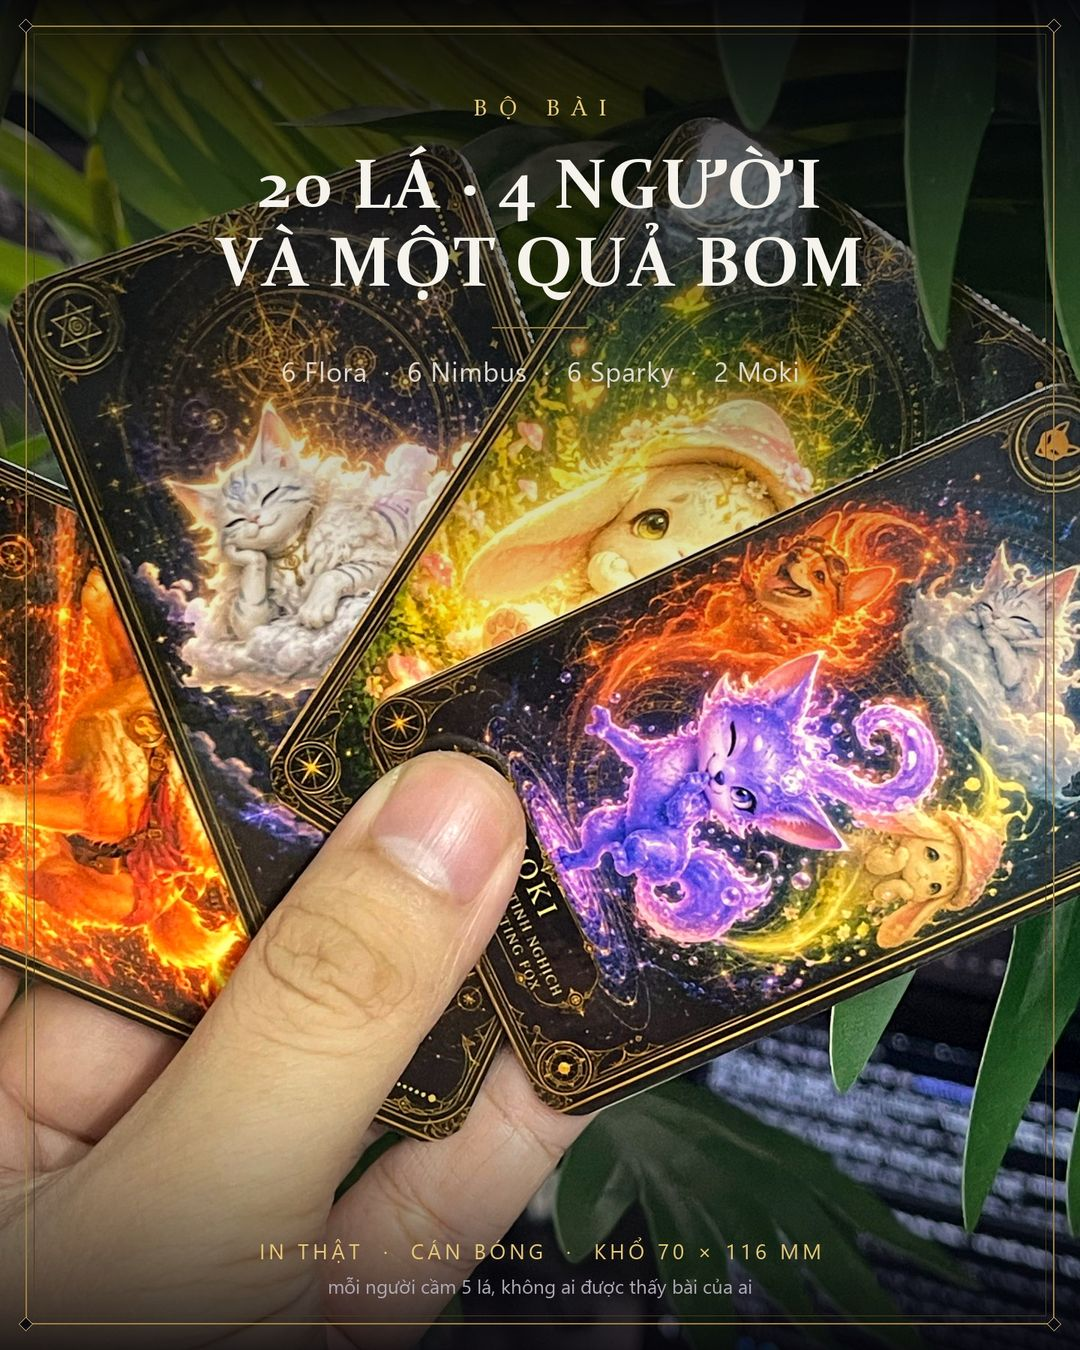
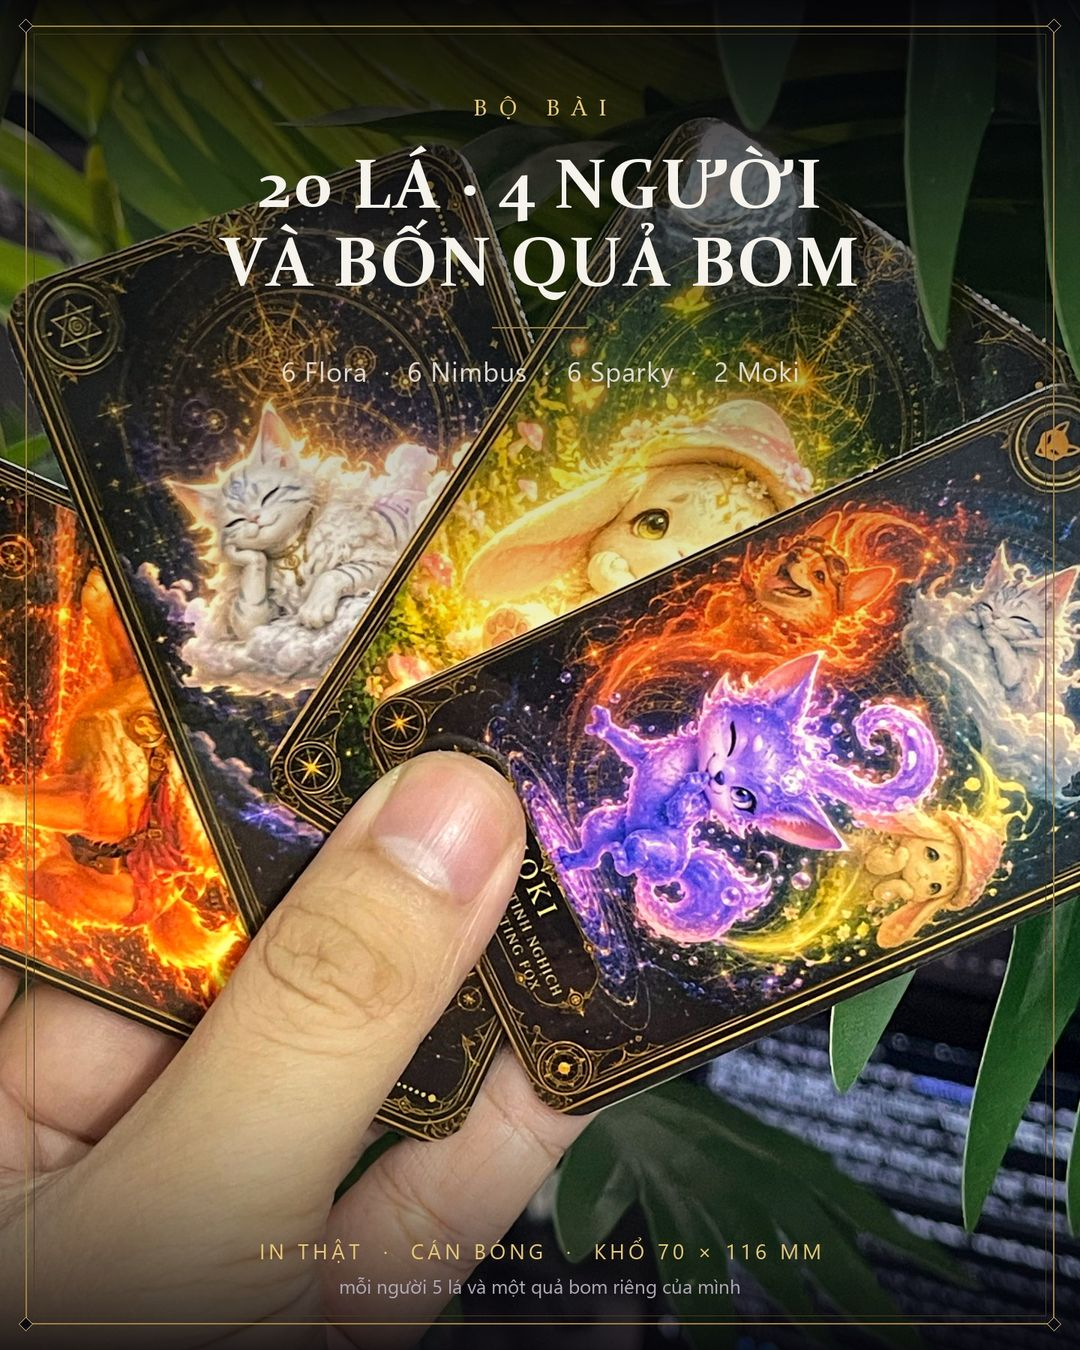
Luat moi: moi nguoi mot qua bom + nguoi chia giu la chu dao
- Mot bo gom 20 la bai va 4 qua bom, moi nguoi giu rieng mot qua.
  Cua song hep dan theo so lan CHINH MINH bi bat, khong phai theo
  so lan ca ban bi phat.
- La chu dao ve tay nguoi chia (phan bu cho nguoi chia). 19 la con
  lai chia tiep, cuoi cung ai cung cam 5 la.
- Them muc "Meo cho nguoi chia bai" vao luat chi tiet.
- Them ghi chu xac suat: kha nang chet o lan bi bat thu 1, 2 hay 3
  deu bang 1/3.
- Van mau: An lam nguoi chia va danh luon la chu dao.
- Dung lai anh 02, 03, 04 cho khop luat moi.

Claude-Session: https://claude.ai/code/session_01YBYJBKerinFDAmanfukTi1

Changed region(s): [[0.2139, 0.1556, 0.7944, 0.2178], [0.3056, 0.9333, 0.7028, 0.9644]]

diff --git a/index.html b/index.html
@@ -4,9 +4,9 @@
 <meta charset="utf-8">
 <meta name="viewport" content="width=device-width, initial-scale=1">
 <title>Hư Thực Khó Lường — board game bài + quả bom thật</title>
-<meta name="description" content="Bộ bài bluff 20 lá cho 4 người, đi kèm một thiết bị gỡ bom tự thiết kế. Bị bắt nói dối là phải bấm 1 trong 3 nút.">
+<meta name="description" content="Bộ bài bluff 20 lá cho 4 người, đi kèm 4 quả bom tự thiết kế — mỗi người một quả. Bị bắt nói dối là phải bấm 1 trong 3 nút.">
 <meta property="og:title" content="Hư Thực Khó Lường">
-<meta property="og:description" content="Bị bắt nói dối là phải gỡ bom. Ba nút, một nút cho nổ, và quả bom không reset.">
+<meta property="og:description" content="Bị bắt nói dối là phải gỡ bom. Mỗi người một quả bom riêng, ba nút, một nút cho nổ.">
 <meta property="og:image" content="img/01-hero.jpg">
 <meta property="og:type" content="website">
 <link rel="preconnect" href="https://fonts.googleapis.com">
@@ -184,6 +184,8 @@
                    box-shadow:0 0 0 4px rgba(216,68,52,.18)}
   .seat b{display:block;font-size:14px}
   .seat i{display:block;font-style:normal;font-size:12px;color:var(--muted);margin-top:2px}
+  .deal{display:block;font-size:10px;letter-spacing:.1em;text-transform:uppercase;
+        color:var(--gold);font-weight:600;margin-top:3px}
 
   .felt{position:relative;min-height:326px;padding:20px 16px;
         display:grid;place-items:center;align-content:center;gap:14px;
@@ -270,7 +272,7 @@
     <h1>Hư Thực Khó Lường</h1>
     <p class="script">Ai cũng bảo mình đang nói thật</p>
     <p class="lead" style="margin:0 auto">Bị bắt nói dối là phải gỡ bom.
-       Ba nút, một nút cho nổ — và quả bom <strong>không reset</strong>.</p>
+       Mỗi người một quả riêng, ba nút, một nút cho nổ — và nó <strong>không reset</strong>.</p>
     <div class="hero-img"><img src="img/01-hero.jpg" alt="Hai bo mạch bom nằm trong lòng bàn tay" width="1080" height="1350"></div>
   </div>
 </header>
@@ -280,16 +282,21 @@
     <div>
       <p class="eyebrow">Hình phạt</p>
       <h2>Quả bom không reset</h2>
-      <p>Bo mạch tự vẽ, tự đi dây, tự đặt gia công, tự viết firmware.
-         Board rộng <strong>39 mm</strong> — chưa tới nửa cái thẻ ATM.</p>
+      <p><strong>Mỗi người một quả bom riêng.</strong> Trong hộp có bốn cái —
+         bo mạch tự vẽ, tự đi dây, tự đặt gia công, tự viết firmware.
+         Mỗi cái rộng <strong>39 mm</strong>, chưa tới nửa cái thẻ ATM.</p>
       <p>Ba nút, một nút giấu bom, chọn ngẫu nhiên mỗi ván. Bấm xong đèn
          <strong>nhấp nháy 3 giây</strong> rồi mới báo kết quả.</p>
-      <p>Nút nào bấm mà an toàn thì tắt đèn vĩnh viễn, không ai bấm lại được nữa:</p>
+      <p>Nút nào bấm mà an toàn thì tắt đèn vĩnh viễn. Quả bom của bạn nhớ hết những lần bạn bị bắt:</p>
       <ul class="odds">
-        <li class="o1"><b>1/3</b><span>Người bị phạt đầu tiên</span></li>
-        <li class="o2"><b>1/2</b><span>Người thứ hai</span></li>
-        <li class="o3"><b>1/1</b><span>Người thứ ba — hết cửa</span></li>
+        <li class="o1"><b>1/3</b><span>Lần bạn bị bắt đầu tiên</span></li>
+        <li class="o2"><b>1/2</b><span>Lần thứ hai</span></li>
+        <li class="o3"><b>1/1</b><span>Lần thứ ba — không còn cửa</span></li>
       </ul>
+      <p style="margin-top:18px">Nhân ba con số đó lại thì ra một điều lạ:
+         khả năng bạn chết ở lần bị bắt <strong>thứ nhất, thứ hai hay thứ ba
+         đều đúng bằng 1/3</strong>. Ngay từ đầu ván, quả bom đã bốc sẵn xem
+         lần bị bắt thứ mấy sẽ hạ bạn — bạn chỉ chưa biết mà thôi.</p>
     </div>
     <div class="dup"><img src="img/03-bom.jpg" alt="Cơ chế bom leo thang 1/3, 1/2, chết chắc" width="1080" height="1350" loading="lazy"></div>
   </div>
@@ -301,11 +308,11 @@
       <p class="eyebrow">Luật chơi</p>
       <h2>Hiểu trong 30 giây</h2>
       <ol class="steps">
-        <li>Rút 1 lá làm <strong>CHỦ ĐẠO</strong>, lật ngửa cho cả bàn cùng thấy.</li>
-        <li>Chia hết 20 lá cho 4 người — mỗi người đúng 5 lá.</li>
+        <li>Rút 1 lá làm <strong>CHỦ ĐẠO</strong>, lật ngửa cho cả bàn cùng thấy. Lá đó về tay <strong>người chia</strong>.</li>
+        <li>Chia nốt 19 lá còn lại. Cuối cùng ai cũng cầm đúng 5 lá.</li>
         <li>Đến lượt: úp 1 lá xuống và diễn như thể đó là lá chủ đạo.</li>
         <li>Người kế tiếp được hô <strong>“NÓI DỐI!”</strong>, hoặc im lặng cho qua.</li>
-        <li>Ai sai thì người đó gỡ bom. Bắt hụt cũng phải gỡ.</li>
+        <li>Ai sai thì người đó gỡ <strong>bom của mình</strong>. Bắt hụt cũng phải gỡ.</li>
       </ol>
       <div class="note">
         <h3>Moki luôn là thật</h3>
@@ -318,12 +325,28 @@
         <div class="in">
           <h4>Chuẩn bị</h4>
           <ul>
-            <li>Bộ 20 lá: <b>6 Flora · 6 Nimbus · 6 Sparky · 2 Moki</b>. Đúng 4 người chơi.</li>
+            <li>Một bộ gồm <b>20 lá bài</b> và <b>4 quả bom</b> — mỗi người giữ riêng một quả.</li>
+            <li>Bài chia làm: <b>6 Flora · 6 Nimbus · 6 Sparky · 2 Moki</b>. Đúng 4 người chơi.</li>
             <li>Xáo bài, rút ngẫu nhiên 1 lá làm <b>chủ đạo</b>. Nếu rút trúng Moki thì trả lại,
                 xáo, rút lại cho tới khi ra một trong ba chất.</li>
-            <li>Lật ngửa lá chủ đạo cho cả bàn cùng thấy, rồi xáo lại cả bộ và chia đều —
-                mỗi người <b>đúng 5 lá</b>, chia hết cả bộ.</li>
+            <li>Lật ngửa lá chủ đạo cho cả bàn cùng thấy. <b>Lá đó thuộc về người chia bài</b> —
+                đây là phần bù cho người chia, họ chắc chắn có sẵn một lá nói thật.</li>
+            <li>19 lá còn lại xáo và chia tiếp: người chia nhận thêm <b>4 lá</b>,
+                ba người kia nhận <b>5 lá</b>. Cuối cùng ai cũng cầm đúng 5 lá.</li>
           </ul>
+
+          <h4>Mẹo cho người chia bài</h4>
+          <p style="margin:0 0 10px">Người chia cầm chắc một lá nói thật. Dùng nó lúc nào là cả một ván cược:</p>
+          <ul>
+            <li><b>Đánh ra ngay lượt đầu.</b> An toàn tuyệt đối ở lượt mở màn — ai vạch trần
+                lượt đó là tự đưa mình lên bom. Đổi lại, từ lượt sau người chia không còn lá
+                an toàn nào, và cả bàn cũng đoán ra điều đó.</li>
+            <li><b>Giữ lại và diễn.</b> Đánh lá dối trước, để dành lá thật cho lúc bị nghi
+                nặng nhất. Rủi ro cao hơn nhiều, nhưng qua được thì có một lá cứu mạng
+                đúng vào lúc cần.</li>
+          </ul>
+          <p style="margin:14px 0 0"><b>Cả bàn đều biết người chia đang giữ lá chủ đạo.
+             Câu hỏi là: họ đã đánh nó ra chưa?</b></p>
 
           <h4>Lượt chơi</h4>
           <ul>
@@ -353,12 +376,15 @@
 
           <h4>Gỡ bom</h4>
           <ul>
-            <li>Bom có 3 nút, mỗi nút một đèn. Đúng <b>1 nút giấu bom</b>, chọn ngẫu nhiên mỗi ván.</li>
+            <li><b>Bom của ai thì người đó bấm.</b> Bom người này không ảnh hưởng gì tới bom người kia.</li>
+            <li>Mỗi quả có 3 nút, mỗi nút một đèn. Đúng <b>1 nút giấu bom</b>, chọn ngẫu nhiên mỗi ván.</li>
             <li>Đèn sáng nghĩa là nút đó chưa ai bấm. Người bị phạt chọn một nút còn sáng.</li>
             <li>Bấm xong đèn <b>nhấp nháy 3 giây</b> rồi mới báo kết quả.</li>
             <li>Nếu an toàn: đèn nút đó <b>tắt vĩnh viễn</b>, không ai bấm lại được nữa.</li>
-            <li>Bom <b>không reset</b> giữa các lần phạt → người bị phạt lần 1 chịu 1/3,
-                lần 2 chịu 1/2, lần 3 thì không còn cửa nào.</li>
+            <li>Bom <b>không reset</b> giữa các lần bị bắt → lần 1 chịu 1/3, lần 2 chịu 1/2,
+                lần 3 thì không còn cửa nào.</li>
+            <li>Nhân lại thì khả năng chết ở lần 1, lần 2 hay lần 3 <b>đều bằng 1/3</b>.
+                Và <b>không ai chịu nổi quá hai lần bị bắt</b>.</li>
           </ul>
 
           <h4>Trúng bom và kết thúc</h4>
@@ -404,7 +430,7 @@
   <div class="wrap grid">
     <div>
       <p class="eyebrow">Bộ bài</p>
-      <h2>20 lá, in thật, cán bóng</h2>
+      <h2>20 lá bài và 4 quả bom</h2>
       <p>Khổ <strong>70 × 116 mm</strong> — khổ tarot, to hơn bài tây một chút,
          cầm chắc tay và dễ giấu mặt bài hơn.</p>
       <p class="muted">6 Flora · 6 Nimbus · 6 Sparky · 2 Moki</p>
@@ -611,22 +637,25 @@
      Nhờ vậy bấm tiến hay bấm lùi đều chỉ là vẽ lại, không cần hoàn tác gì.     */
   var PLAYERS = ["An", "B\u00ecnh", "Chi", "D\u0169ng"];
   var ROUND = [
-    { cap: 'R\u00fat 1 l\u00e1 l\u00e0m <b>ch\u1ee7 \u0111\u1ea1o</b> r\u1ed3i l\u1eadt ng\u1eeda. V\u00e1n n\u00e0y ch\u1ee7 \u0111\u1ea1o l\u00e0 <b>FLORA</b>. B\u1ed1n ng\u01b0\u1eddi, m\u1ed7i ng\u01b0\u1eddi 5 l\u00e1.',
-      hands: [5, 5, 5, 5], pile: [] },
-    { cap: '<b>An</b> \u00fap 1 l\u00e1 xu\u1ed1ng v\u00e0 n\u00f3i: \u201cFlora \u0111\u00e2y.\u201d',
-      act: 0, hands: [4, 5, 5, 5], pile: ["back"], say: "\u201cFlora \u0111\u00e2y.\u201d" },
-    { cap: '<b>B\u00ecnh</b> tin, cho qua. \u0110\u1ebfn l\u01b0\u1ee3t m\u00ecnh, B\u00ecnh c\u0169ng \u00fap 1 l\u00e1: \u201cFlora.\u201d',
-      act: 1, hands: [4, 4, 5, 5], pile: ["back", "back"], say: "\u201cFlora.\u201d" },
-    { cap: '<b>Chi</b> th\u1ea5y B\u00ecnh ng\u1eadp ng\u1eebng h\u01a1i l\u00e2u. Chi quy\u1ebft \u0111\u1ecbnh v\u1ea1ch tr\u1ea7n.',
-      act: 2, hands: [4, 4, 5, 5], pile: ["back", "back"], shout: "N\u00d3I D\u1ed0I!" },
-    { cap: 'L\u1eadt l\u00e1 c\u1ee7a B\u00ecnh ra \u2014 <b>SPARKY</b>, kh\u00f4ng ph\u1ea3i Flora. B\u00ecnh n\u00f3i d\u1ed1i th\u1eadt.',
+    { cap: 'Rút 1 lá làm <b>chủ đạo</b> rồi lật ngửa. Ván này là <b>FLORA</b>. '
+         + 'Lá đó về tay <b>An</b> — người chia bài.',
+      act: 0, hands: [5, 5, 5, 5], pile: [] },
+    { cap: '<b>An</b> đang cầm chính lá chủ đạo. An đánh nó ra luôn cho chắc: “Flora đây.”',
+      act: 0, hands: [4, 5, 5, 5], pile: ["back"], say: "“Flora đây.”" },
+    { cap: '<b>Bình</b> tin, cho qua. Đến lượt mình, Bình cũng úp 1 lá: “Flora.”',
+      act: 1, hands: [4, 4, 5, 5], pile: ["back", "back"], say: "“Flora.”" },
+    { cap: '<b>Chi</b> thấy Bình ngập ngừng hơi lâu. Chi quyết định vạch trần.',
+      act: 2, hands: [4, 4, 5, 5], pile: ["back", "back"], shout: "NÓI DỐI!" },
+    { cap: 'Lật lá của Bình ra — <b>SPARKY</b>, không phải Flora. Bình nói dối thật.',
       blame: 1, hands: [4, 4, 5, 5], pile: ["back", "sparky"] },
-    { cap: 'B\u1eaft \u0111\u00fang, n\u00ean <b>B\u00ecnh</b> \u0111i g\u1ee1 bom. Ba n\u00fat, m\u1ed9t n\u00fat gi\u1ea5u bom.',
+    { cap: 'Bắt đúng, nên <b>Bình</b> gỡ <b>quả bom của mình</b>. '
+         + 'Đây là lần đầu Bình bị bắt, nên ba nút còn sáng cả.',
       blame: 1, hands: [4, 4, 5, 5], pile: ["back", "sparky"], bomb: { lit: [1, 1, 1] } },
-    { cap: 'B\u00ecnh b\u1ea5m n\u00fat gi\u1eefa. \u0110\u00e8n <b>nh\u1ea5p nh\u00e1y 3 gi\u00e2y</b> r\u1ed3i m\u1edbi b\u00e1o k\u1ebft qu\u1ea3.',
+    { cap: 'Bình bấm nút giữa. Đèn <b>nhấp nháy 3 giây</b> rồi mới báo kết quả.',
       blame: 1, hands: [4, 4, 5, 5], pile: ["back", "sparky"],
       bomb: { lit: [1, 1, 1], press: 1, blink: 1 } },
-    { cap: 'An to\u00e0n. Nh\u01b0ng n\u00fat \u0111\u00f3 <b>t\u1eaft \u0111\u00e8n v\u0129nh vi\u1ec5n</b> \u2014 ng\u01b0\u1eddi b\u1ecb ph\u1ea1t ti\u1ebfp theo ch\u1ec9 c\u00f2n <b>2 c\u1eeda</b>.',
+    { cap: 'An toàn. Nhưng nút đó <b>tắt vĩnh viễn</b> — lần sau Bình bị bắt thì chỉ còn '
+         + '<b>2 cửa</b>. Ba người kia vẫn còn nguyên bom của họ.',
       hands: [4, 4, 5, 5], pile: ["back", "sparky"], bomb: { lit: [1, 0, 1], press: 1 } }
   ];
   var HOLD = [3400, 2900, 3200, 2700, 3200, 2900, 3400, 4500];
@@ -646,7 +675,8 @@
     seats.innerHTML = PLAYERS.map(function (n, i) {
       return '<div class="seat" data-s="' + i + '">' +
              '<span class="ava">' + n.charAt(0) + "</span>" +
-             "<b>" + n + "</b><i></i></div>";
+             "<b>" + n + (i === 0 ? ' <span class="deal">chia bài</span>' : "") +
+             "</b><i></i></div>";
     }).join("");
     dots.innerHTML = ROUND.map(function () { return "<i></i>"; }).join("");
 
